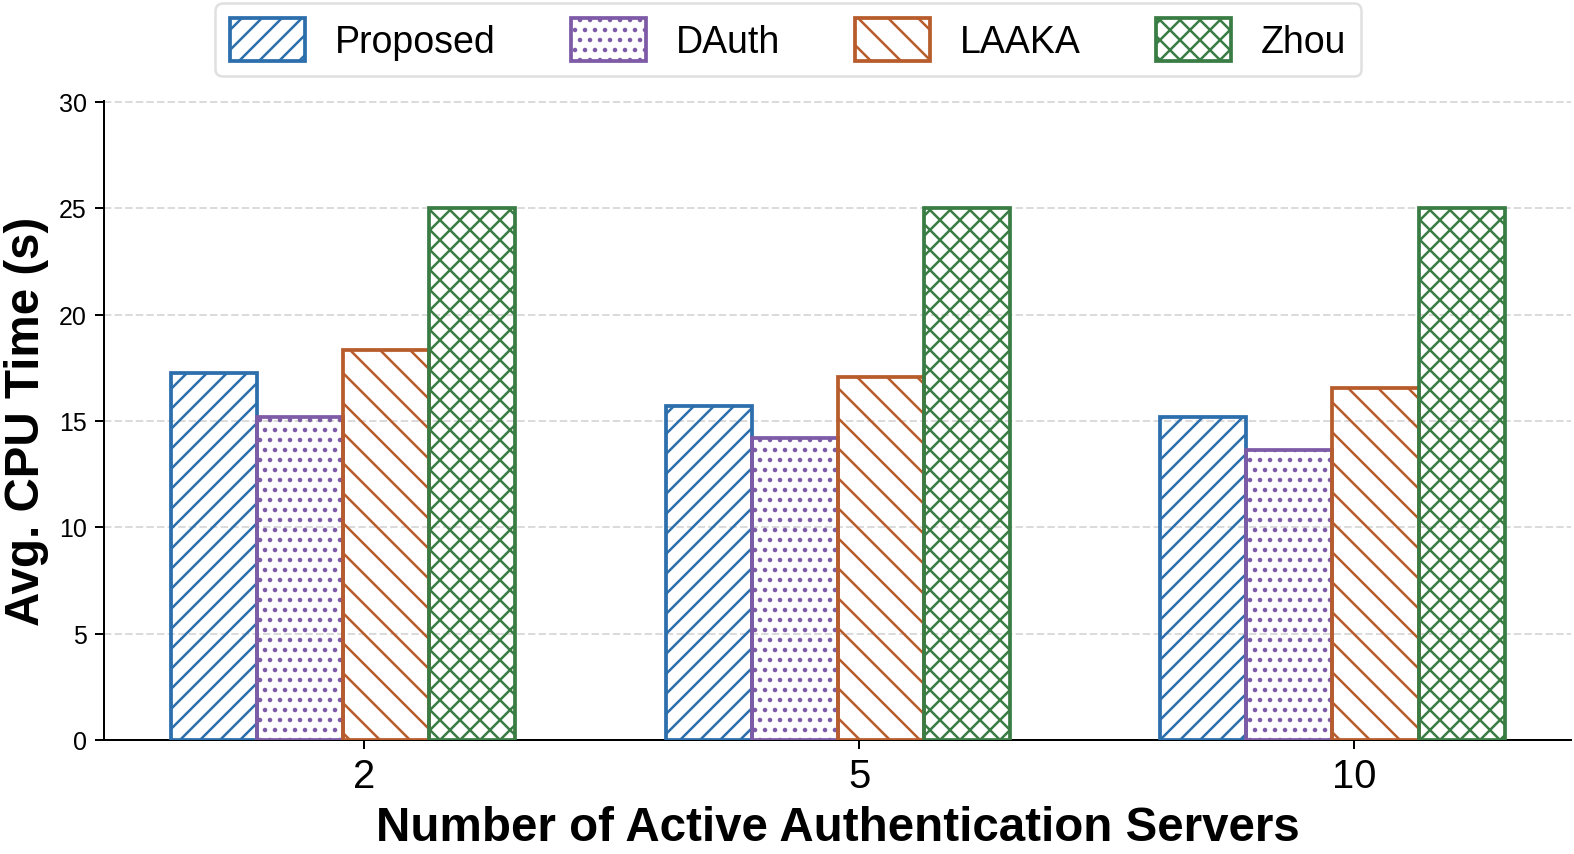
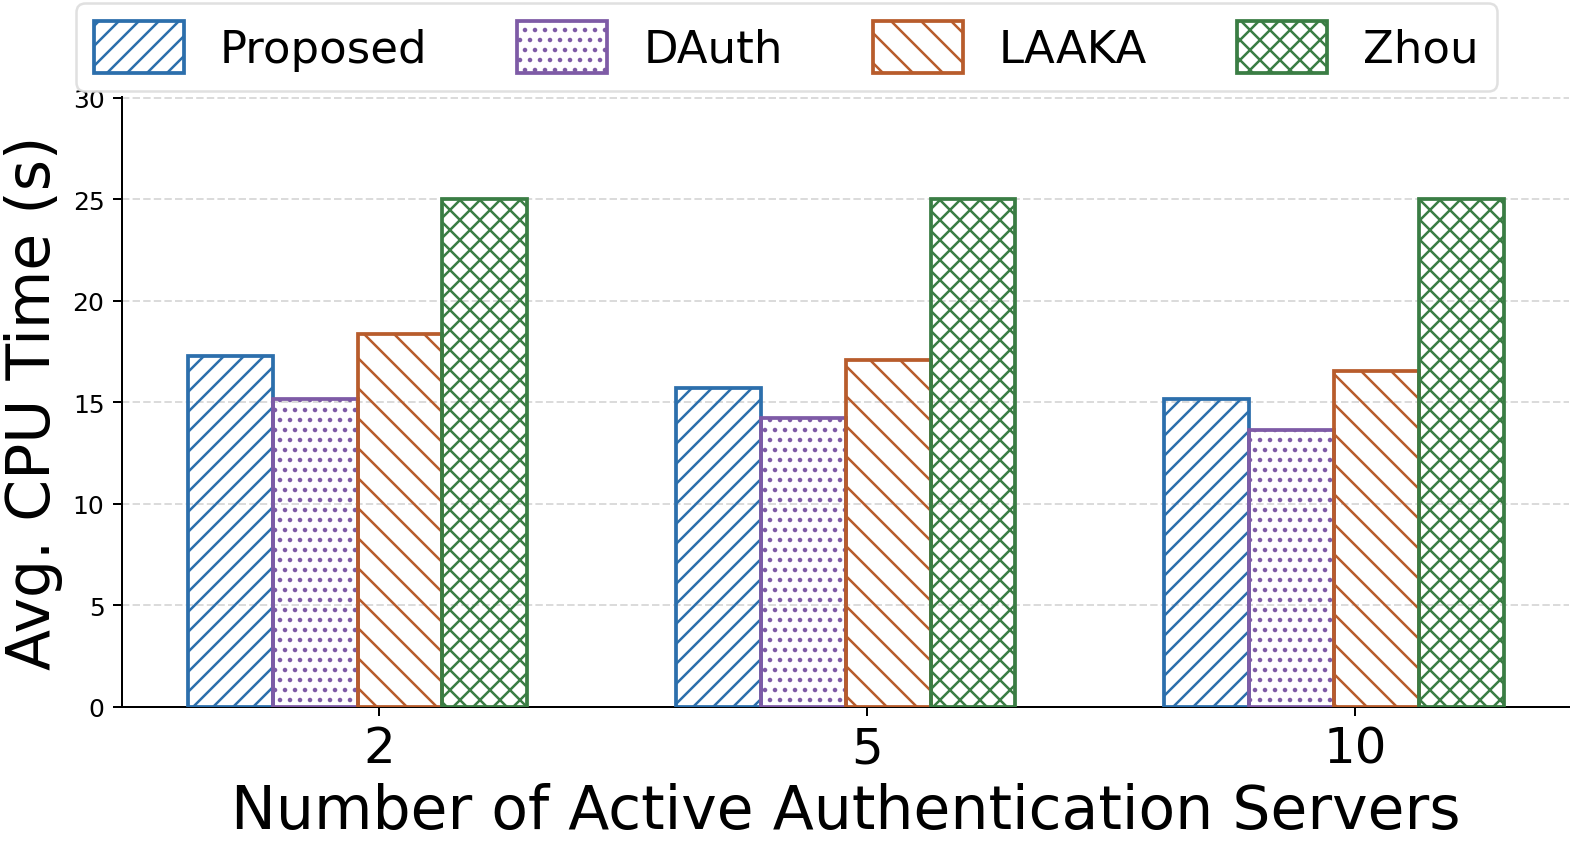
Charts: switch labels from bold to normal font, increase font sizes
Replace fontweight="bold" / axes.titleweight with "normal" and bump
label/tick/legend sizes across the five paper-figure plot scripts
(10-seed, AS-variation, network-variation, desync bar, hardware).
Regenerate all affected figures from the local CSV / HW JSON data;
underlying values are unchanged.

diff --git a/Scripts/Simulation-Runners/plot_network_variation.py b/Scripts/Simulation-Runners/plot_network_variation.py
@@ -103,17 +103,17 @@ SCHEME_HATCHES = {
 # Global aesthetic style applied to both charts
 _CHART_STYLE = {
     "font.family":        "Liberation Sans",
-    "font.size":          15,
-    "axes.titlesize":     18,
-    "axes.titleweight":   "bold",
-    "axes.labelsize":     19,
+    "font.size":          18,
+    "axes.titlesize":     22,
+    "axes.titleweight":   "normal",
+    "axes.labelsize":     23,
     "axes.spines.top":    False,
     "axes.spines.right":  False,
     "axes.linewidth":     0.7,
-    "xtick.labelsize":    15,
-    "ytick.labelsize":    15,
+    "xtick.labelsize":    18,
+    "ytick.labelsize":    18,
     "xtick.major.size":   0,
-    "legend.fontsize":    15,
+    "legend.fontsize":    18,
     "legend.framealpha":  0.9,
     "legend.edgecolor":   "#cccccc",
     "grid.color":         "#e5e5e5",
@@ -284,8 +284,8 @@ def build_series(phase_name, metric):
 # ─────────────────────────────────────────────────────────name = "Energy"───────
 # ─────────────────────────────────────────────────────────────────────────────
 def _apply_style(ax, xlabel, ylabel, title):
-    ax.set_xlabel(xlabel, fontsize=19, fontweight="bold")
-    ax.set_ylabel(ylabel, fontsize=19, fontweight="bold")
+    ax.set_xlabel(xlabel, fontsize=19, fontweight="normal")
+    ax.set_ylabel(ylabel, fontsize=19, fontweight="normal")
     # chart title removed (figure caption describes it)
     ax.yaxis.grid(True, linestyle="--", alpha=0.5)
     ax.set_axisbelow(True)
@@ -477,21 +477,21 @@ def _grouped_bar(metric, ylabel, title, out_path, paper_path=None, show=False):
                    linewidth=1.5)
 
         ax.set_xticks(x)
-        ax.set_xticklabels([str(n) for n in SIZES], fontsize=19)
-        ax.set_xlabel("Total Network Nodes", labelpad=8, fontsize=21, fontweight="bold")
-        ax.set_ylabel(ylabel, labelpad=8, fontsize=21, fontweight="bold")
+        ax.set_xticklabels([str(n) for n in SIZES], fontsize=22)
+        ax.set_xlabel("Total Network Nodes", labelpad=8, fontsize=25, fontweight="normal")
+        ax.set_ylabel(ylabel, labelpad=8, fontsize=25, fontweight="normal")
         # chart title removed (figure caption describes it)
 
         ax.yaxis.grid(True, linestyle="--", linewidth=0.6, color="#e5e5e5")
         ax.set_axisbelow(True)
-        ax.tick_params(axis="y", length=0, labelsize=18)
+        ax.tick_params(axis="y", length=0, labelsize=21)
         ax.spines["left"].set_color("#cccccc")
         ax.spines["bottom"].set_color("#cccccc")
 
         handles, labels = ax.get_legend_handles_labels()
         fig.legend(handles, labels,
                    loc="upper center", bbox_to_anchor=(0.5, 1.0),
-                   ncol=4, fontsize=19, framealpha=0.9,
+                   ncol=4, fontsize=22, framealpha=0.9,
                    edgecolor="#dddddd", handlelength=2.2, handleheight=1.6)
 
         fig.tight_layout(rect=[0, 0, 1, 0.91])

diff --git a/Scripts/Simulation-Runners/plot_as_variation.py b/Scripts/Simulation-Runners/plot_as_variation.py
@@ -188,9 +188,9 @@ def grouped_bar_chart(data, metric_key, ci_key, ylabel, title, out_path,
 
     # Centre ticks on each group
     ax.set_xticks(x + offsets[n_schemes // 2] / 2)
-    ax.set_xticklabels([str(n) for n in AS_COUNTS], fontsize=16)
-    ax.set_xlabel("Number of Active Authentication Servers", fontsize=19, fontweight="bold")
-    ax.set_ylabel(ylabel, fontsize=19, fontweight="bold")
+    ax.set_xticklabels([str(n) for n in AS_COUNTS], fontsize=20)
+    ax.set_xlabel("Number of Active Authentication Servers", fontsize=24, fontweight="normal")
+    ax.set_ylabel(ylabel, fontsize=24, fontweight="normal")
     # chart title removed (figure caption describes it)
     ax.yaxis.grid(True, linestyle="--", alpha=0.45, zorder=0)
     ax.set_axisbelow(True)
@@ -203,7 +203,7 @@ def grouped_bar_chart(data, metric_key, ci_key, ylabel, title, out_path,
     handles, labels = ax.get_legend_handles_labels()
     fig.legend(handles, labels,
                loc="upper center", bbox_to_anchor=(0.5, 0.99),
-               ncol=4, fontsize=15, framealpha=0.9,
+               ncol=4, fontsize=18, framealpha=0.9,
                edgecolor="#dddddd", handlelength=2.0, handleheight=1.4)
     fig.tight_layout(rect=[0, 0, 1, 0.90])
     save_fig(fig, out_path)
@@ -269,8 +269,8 @@ def stacked_bar_chart(data, metric_key_prefix, ci_key_prefix, ylabel, title, out
 
     ax.set_xticks(x + (bar_width / 2) * (n_schemes - 1) / n_schemes * 0.5)
     ax.set_xticklabels([str(n) for n in AS_COUNTS], fontsize=16)
-    ax.set_xlabel("Number of Active Authentication Servers", fontsize=19, fontweight="bold")
-    ax.set_ylabel(ylabel, fontsize=19, fontweight="bold")
+    ax.set_xlabel("Number of Active Authentication Servers", fontsize=19, fontweight="normal")
+    ax.set_ylabel(ylabel, fontsize=19, fontweight="normal")
     # chart title removed (figure caption describes it)
     ax.yaxis.grid(True, linestyle="--", alpha=0.45, zorder=0)
     ax.set_axisbelow(True)
@@ -401,8 +401,8 @@ def _plot_per_device_line(data, out_dir):
             ax.plot(xs_arr, ys_arr, marker="o", label=scheme,
                     color=COLORS[scheme], linewidth=1.8)
 
-        ax.set_xlabel("Number of Active Authentication Servers", fontsize=19, fontweight="bold")
-        ax.set_ylabel(ylabel, fontsize=19, fontweight="bold")
+        ax.set_xlabel("Number of Active Authentication Servers", fontsize=19, fontweight="normal")
+        ax.set_ylabel(ylabel, fontsize=19, fontweight="normal")
         ax.set_xticks(AS_COUNTS)
         ax.yaxis.grid(True, linestyle="--", alpha=0.45)
         ax.set_axisbelow(True)

diff --git a/Scripts/Simulation-Runners/plot_10seed_comparison.py b/Scripts/Simulation-Runners/plot_10seed_comparison.py
@@ -35,17 +35,17 @@ HATCHES      = {"Proposed": "///",     "DAuth": "...",     "LAAKA": "\\\\\\", "Z
 
 _STYLE = {
     "font.family":       "Liberation Sans",
-    "font.size":         19,
-    "axes.titlesize":    23,
-    "axes.titleweight":  "bold",
-    "axes.labelsize":    22,
+    "font.size":         23,
+    "axes.titlesize":    27,
+    "axes.titleweight":  "normal",
+    "axes.labelsize":    26,
     "axes.spines.top":   False,
     "axes.spines.right": False,
     "axes.linewidth":    0.7,
-    "xtick.labelsize":   20,
-    "ytick.labelsize":   19,
+    "xtick.labelsize":   24,
+    "ytick.labelsize":   23,
     "xtick.major.size":  0,
-    "legend.fontsize":   18,
+    "legend.fontsize":   21,
     "legend.framealpha": 0.9,
     "legend.edgecolor":  "#cccccc",
     "grid.color":        "#e5e5e5",
@@ -129,8 +129,8 @@ def draw_panel(ax, stats, ylabel, fmt):
 
     ax.set_xticks(pos)
     ax.set_xticklabels([SCHEME_LABEL[s] for s, _, _ in stats],
-                       fontsize=20, ha="center")
-    ax.set_ylabel(ylabel, labelpad=20, fontsize=22, fontweight="bold")
+                       fontsize=24, ha="center")
+    ax.set_ylabel(ylabel, labelpad=20, fontsize=26, fontweight="normal")
     ax.yaxis.grid(True, linestyle="--", linewidth=0.6, color="#e5e5e5")
     ax.set_axisbelow(True)
     ax.tick_params(axis="y", length=0)
@@ -202,8 +202,8 @@ def make_perdev_chart(scheme_records):
 
         draw_panel(ax_e, e_stats, "Avg. Energy (mJ)", ".2f")
         draw_panel(ax_c, c_stats, "Avg. CPU Time (s)", ".3f")
-        ax_e.set_xlabel("(a)", fontsize=22, fontweight="bold")
-        ax_c.set_xlabel("(b)", fontsize=22, fontweight="bold")
+        ax_e.set_xlabel("(a)", fontsize=26, fontweight="normal")
+        ax_c.set_xlabel("(b)", fontsize=26, fontweight="normal")
 
         scheme_patches = [
             mpatches.Patch(facecolor="none", edgecolor=COLORS[s],
@@ -213,7 +213,7 @@ def make_perdev_chart(scheme_records):
         ]
         fig.legend(handles=scheme_patches,
                    loc="upper center", bbox_to_anchor=(0.5, 1.0),
-                   ncol=4, fontsize=19, framealpha=0.9,
+                   ncol=4, fontsize=22, framealpha=0.9,
                    edgecolor="#dddddd", handlelength=2.2, handleheight=1.6)
 
         fig.tight_layout(rect=[0, 0, 1, 0.91])

diff --git a/Scripts/Simulation-Runners/plot_desync_bar.py b/Scripts/Simulation-Runners/plot_desync_bar.py
@@ -44,15 +44,15 @@ BAR_HATCHES = {
 }
 _STYLE = {
     "font.family":       "Liberation Sans",
-    "font.size":         26,
-    "axes.titlesize":    30,
-    "axes.titleweight":  "bold",
-    "axes.labelsize":    30,
+    "font.size":         29,
+    "axes.titlesize":    33,
+    "axes.titleweight":  "normal",
+    "axes.labelsize":    34,
     "axes.spines.top":   False,
     "axes.spines.right": False,
     "axes.linewidth":    0.9,
-    "xtick.labelsize":   28,
-    "ytick.labelsize":   26,
+    "xtick.labelsize":   31,
+    "ytick.labelsize":   29,
     "xtick.major.size":  0,
     "grid.color":        "#e5e5e5",
     "grid.linewidth":    0.6,
@@ -119,12 +119,12 @@ def draw_panel(ax, stats, ylabel, fmt):
                linewidth=2.2,
                zorder=3)
         ax.text(s_idx, mean + max_val * 0.02, fmt.format(mean),
-                ha="center", va="bottom", fontsize=22, fontweight="bold",
+                ha="center", va="bottom", fontsize=26, fontweight="normal",
                 color=SCHEME_COLORS[scheme])
 
     ax.set_xticks(range(n_schemes))
-    ax.set_xticklabels(SCHEMES, fontsize=28, ha="center")
-    ax.set_ylabel(ylabel, labelpad=20, fontsize=30, fontweight="bold")
+    ax.set_xticklabels(SCHEMES, fontsize=31, ha="center")
+    ax.set_ylabel(ylabel, labelpad=20, fontsize=34, fontweight="normal")
     ax.yaxis.grid(True, linestyle="--", linewidth=0.6, color="#e5e5e5")
     ax.set_axisbelow(True)
     ax.tick_params(axis="y", length=0)
@@ -167,8 +167,8 @@ def main():
 
         draw_panel(ax_e, e_stats, "Avg. Energy (mJ)", "{:.1f}")
         draw_panel(ax_c, c_stats, "Avg. CPU Time (s)", "{:.2f}")
-        ax_e.set_xlabel("(a)", fontsize=30, fontweight="bold")
-        ax_c.set_xlabel("(b)", fontsize=30, fontweight="bold")
+        ax_e.set_xlabel("(a)", fontsize=34, fontweight="normal")
+        ax_c.set_xlabel("(b)", fontsize=34, fontweight="normal")
 
         fig.tight_layout(rect=[0, 0.02, 1, 1.0])
         fig.savefig(OUT_FILE,   dpi=180, bbox_inches="tight", facecolor="white")

diff --git a/Hardware/MIRACLE/plot_auth_keyex.py b/Hardware/MIRACLE/plot_auth_keyex.py
@@ -43,7 +43,7 @@ def main():
         print(f"{label:11}: {e:.4f} J / {t:.4f} s")
 
     x = np.arange(len(labels))
-    plt.rcParams.update({"font.family": "DejaVu Sans", "font.size": 13})
+    plt.rcParams.update({"font.family": "DejaVu Sans", "font.size": 16})
     fig, (axe, axt) = plt.subplots(1, 2, figsize=(11, 4.6))
 
     for ax, vals, ylabel, title, fmt in [
@@ -54,10 +54,10 @@ def main():
             ax.bar(i, vals[i], width=0.6, facecolor="none", edgecolor=COLORS[lab],
                    hatch=HATCHES[lab], linewidth=1.8, zorder=3)
             ax.text(i, vals[i] + max(vals) * 0.02, fmt.format(vals[i]),
-                    ha="center", va="bottom", fontsize=11, fontweight="bold", color=COLORS[lab])
-        ax.set_xticks(x); ax.set_xticklabels(labels, fontsize=12)
-        ax.set_ylabel(ylabel, fontsize=13, fontweight="bold")
-        ax.set_title(title, fontsize=12, fontweight="bold", pad=8)
+                    ha="center", va="bottom", fontsize=14, fontweight="normal", color=COLORS[lab])
+        ax.set_xticks(x); ax.set_xticklabels(labels, fontsize=15)
+        ax.set_ylabel(ylabel, fontsize=16, fontweight="normal")
+        ax.set_title(title, fontsize=15, fontweight="normal", pad=8)
         ax.yaxis.grid(True, linestyle="--", linewidth=0.6, color="#e5e5e5")
         ax.set_axisbelow(True)
         ax.spines["top"].set_visible(False); ax.spines["right"].set_visible(False)
